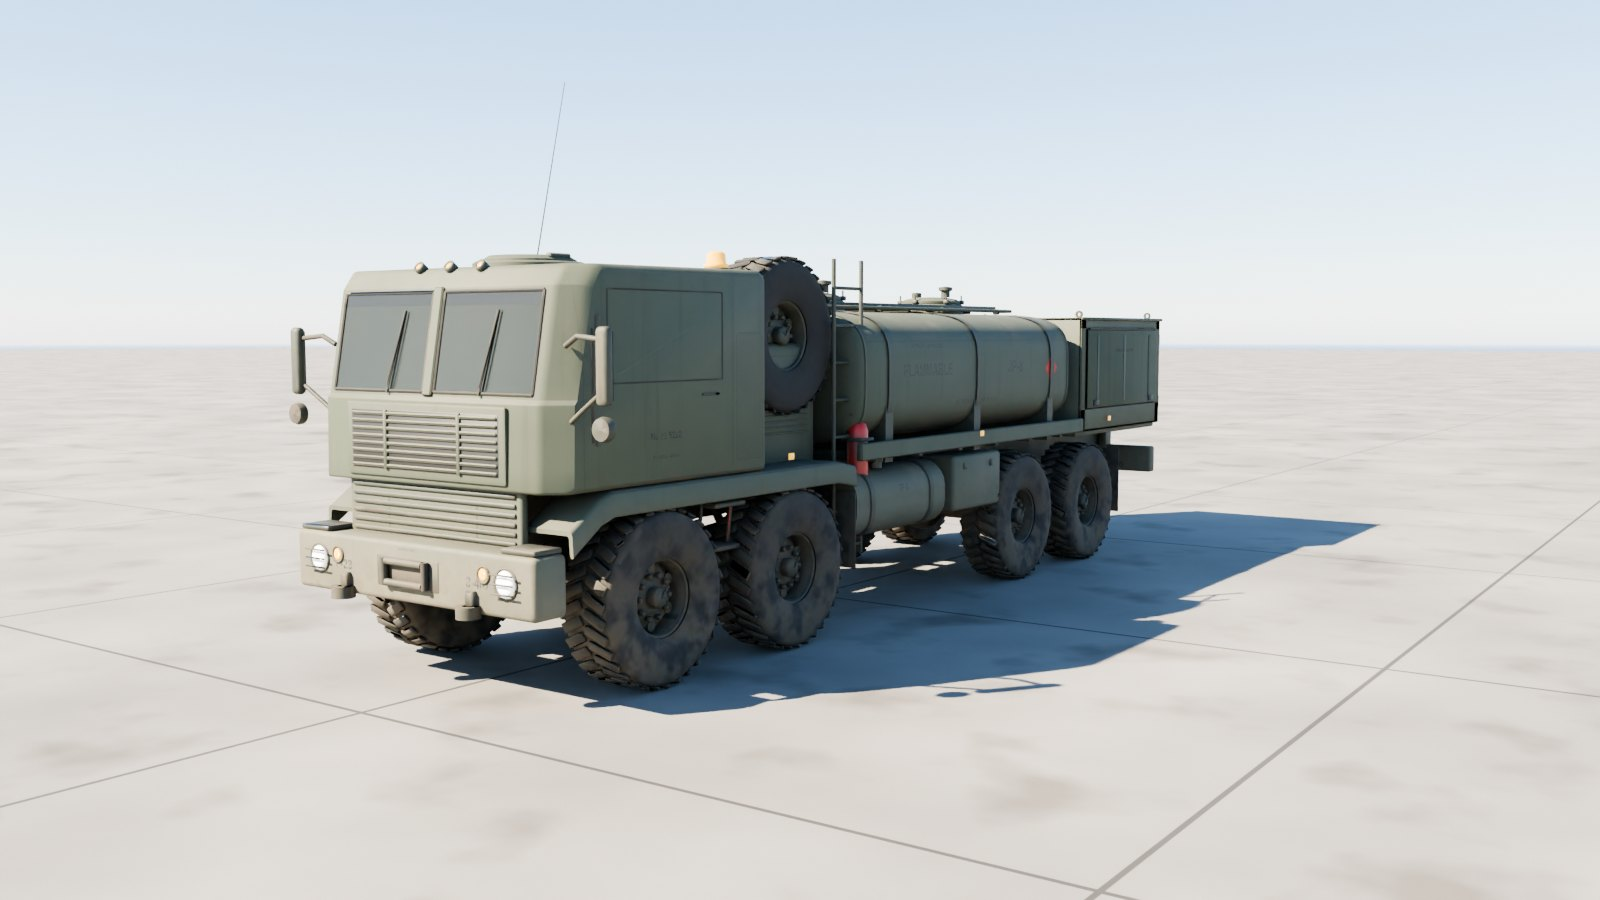
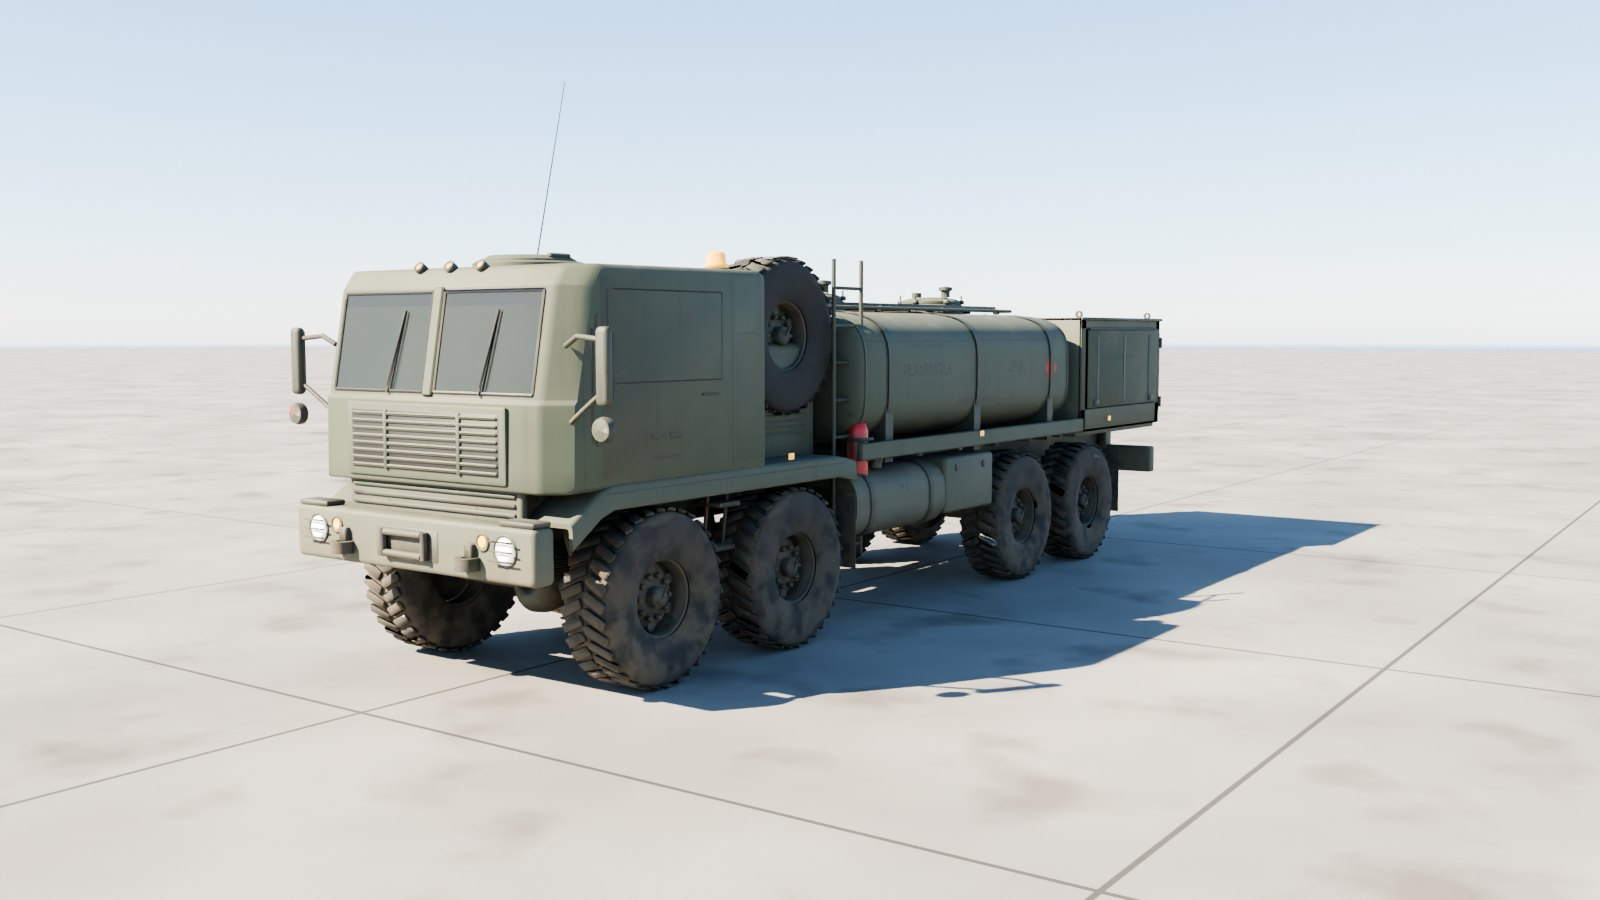
The M978A4 tanker's renders and README, with its off-road figures in the 1:1 table
Claude-Session: https://claude.ai/code/session_011yj7L8L1UpaZ79XnLpfs4s

diff --git a/hemtt-m978/README.md b/hemtt-m978/README.md
@@ -14,7 +14,7 @@ The US Army's HEMTT M978A4 fuel servicing truck at 1:1 scale, outside only: the 
 
 | File | What it is |
 | --- | --- |
-| `hemtt_m978a4.glb` | **The tanker.** Textured, with the doors, pump doors, hose reels and every wheel and its steering its own node. 16.1 MB. |
+| `hemtt_m978a4.glb` | **The tanker.** Textured, with the doors, pump doors, hose reels and every wheel and its steering its own node. 16.3 MB. |
 | `hemtt_m978a4_web.glb` | A lighter copy with half-size WebP textures, for browsers and phones. 8.0 MB. |
 | `hemtt_m978a4_viewer.html` | Opens the tanker in your browser with a double-click: orbit round it, drive and steer it, open the cab and pump doors. 11.2 MB; not checked in, `node modelkit/finish.mjs` makes it. |
 | `measurements.json` | The finished model measured against the published dimensions. |
@@ -33,8 +33,9 @@ Built to Oshkosh's published M978A4 figures; `build.py` measures the finished ge
 | Track | 2.007 | 2.007 |
 | Tyre diameter (16.00R20) | 1.240 | 1.238 |
 | Tank, m3 (2,500 US gal) | 9.463 | 9.463 |
+| Approach angle | 41.0° | 40.8° |
 
-All within 4 mm.
+All within 4 mm, the angles within 0.2°.
 
 - **Units and axes:** metres, glTF axes. +Y is up, +Z points to the front, and +X is the left.
 - **Origin:** on the ground, on the centreline, midway between the front and rear axle pairs.
@@ -46,9 +47,9 @@ Each is its own node, pivoted where the real part turns. Its glTF extras say how
 | Node | Moves |
 | --- | --- |
 | `Wheel_{1-4}_{Left,Right}` | spin about local X; + rolls forward (radius 0.62 m) |
-| `Steer_{1,2}_{Left,Right}` | steer about local Y; + turns left; the second axle turns about two thirds as far as the first |
-| `Door_Left`, `Door_Right` | the cab doors swing about `axis` on their front hinges (group `Cab doors`) |
-| `Pump_Door_{Left,Right}`, `Pump_Side_Door_{Left,Right}` | the pump module's rear doors swing out on their outer hinges; its side doors lift on their tops (group `Pump doors`) |
+| `Steer_{1,2}_{Left,Right}` | steer about local Y; + turns left. Full lock is the inner wheels' for the published 100 ft turning circle: 27° on the first axle, 21° on the second |
+| `Door_Left`, `Door_Right` | the cab doors swing about `axis` on hinges on their outer skins (group `Cab doors`) |
+| `Pump_Door_{Left,Right}`, `Pump_Side_Door_{Left,Right}` | the pump module's rear doors swing out on hinges at its back corners and fold round flat against its sides (group `Pump rear doors`); its side doors lift on their tops (group `Pump side doors`) |
 | `Hose_Reel_1`, `Hose_Reel_2` | turn about local X to pay the hose out |
 | `Spare_Tire` | on its carrier behind the cab |
 | `Light_*` | head, blackout and tail lights; their lens materials `Light_White`, `Light_Amber` and `Light_Red` are emissive, so scale the emission to switch them |
@@ -89,6 +90,6 @@ python3.11 hemtt-m978/build.py --preview out --lookdev    # a quick look at the 
 
 ## Accuracy
 
-- **Published dimensions:** length, width, height over the spare tyre, wheelbase, track, the tyres and the tank's capacity all match.
+- **Published dimensions:** length, width, height over the spare tyre, wheelbase, track, the tyres, the tank's capacity, the 41° approach angle and the 100 ft turning circle (as the steering locks) all match.
 - **Estimated:** the tank's shape and length (sized to hold 2,500 gal), the pump module's layout and the fittings.
 - **Markings:** plausible but made up; the registration isn't a real truck's.
